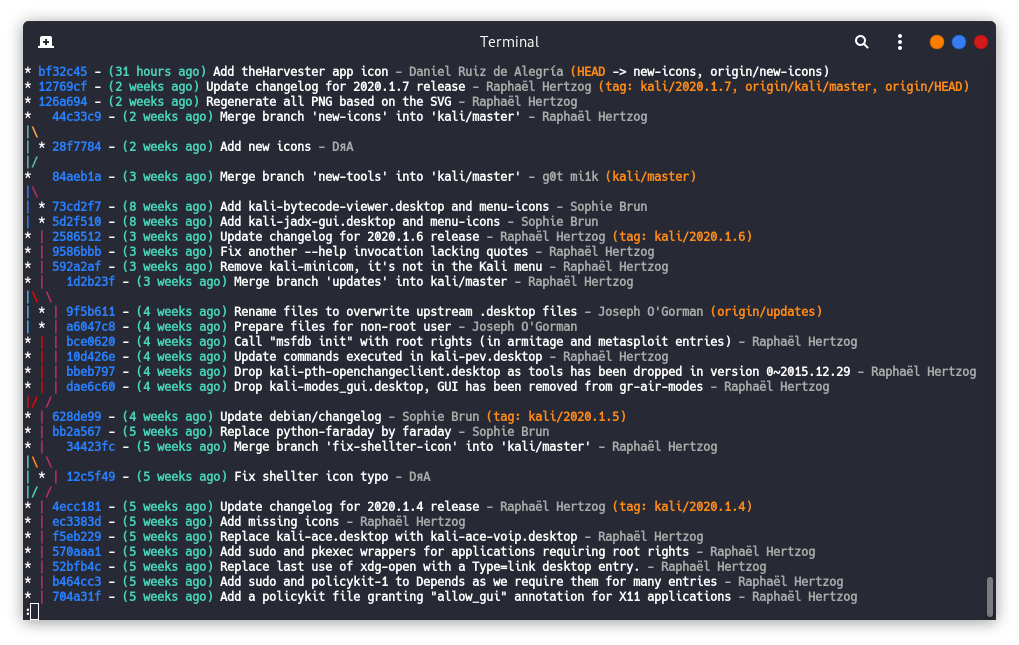
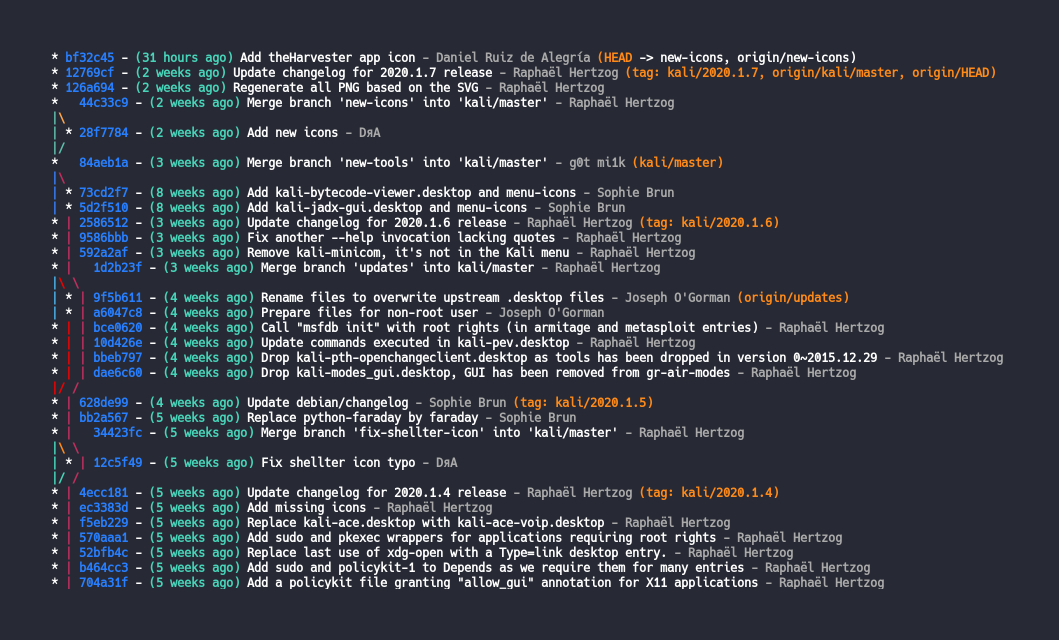
Update 'Pimp my terminal' post .gitconfig settings

diff --git a/src/content/blog/posts/20200115-Pimp my terminal.html b/src/content/blog/posts/20200115-Pimp my terminal.html
@@ -551,23 +551,32 @@ provided message and pushed to the current branch.
     git push origin HEAD
 </span><span class="pun">}</span></pre>
 <h3>.gitconfig</h3>
-<pre>
-[color]
+<pre class="prettyprint">
+[color] <span class="com"># colorize output</span>
 	diff = auto
 	status = auto
 	branch = auto
 	interactive = auto
 	ui = true
 	pager = true
-[credential]
+[credential] <span class="com"># cache credentials</span>
 	helper = cache --timeout=3600
-[alias]
-	glog = !"git --no-pager log --color=always --graph --abbrev-commit --decorate --format=format:'%C(bold blue)%h%C(reset) - %C(bold green)(%ar)%C(reset) %s%C(reset) %C(dim white)- %an%C(reset)%C(bold yellow)%d%C(reset)' --all | less -r -X +/[^/]HEAD"
 </pre>
 <h4>git glog</h4>
+<pre>
+[alias]
+	glog = !"git --no-pager log --all --color=always --graph --abbrev-commit --decorate --format=format:'%C(bold blue)%h%C(reset) - %C(bold green)(%ar)%C(reset) %s%C(reset) %C(dim white)- %an%C(reset)%C(bold yellow)%d%C(reset)' | less -r -X +/[^/]HEAD"
+</pre>
 <img src="/content/blog/posts/media/pimp-my-term/git-glog.png"
     alt="git glog alias"
     style="box-shadow:none">
+<h4>git glog with Nerd Fonts glyphs</h4>
+<pre>
+[alias]
+	glog = !"git --no-pager log --all --color=always --graph --abbrev-commit --decorate --format=format:'%C(bold blue)%h%C(reset) - %C(bold green)(%ar)%C(reset) %s%C(reset) %C(dim white)- %an%C(reset)%C(bold yellow)%d%C(reset)' | sed -r -e 's/\\|(\\x1b\\[[0-9;]*m)+\\\\(\\x1b\\[[0-9;]*m)+ /├\\1─╮\\2/' -e 's/(\\x1b\\[[0-9;]+m)\\|\\x1b\\[m\\1\\/\\x1b\\[m /\\1├─╯\\x1b\\[m/' -e 's/\\|(\\x1b\\[[0-9;]*m)+\\\\(\\x1b\\[[0-9;]*m)+/├\\1╮\\2/' -e 's/(\\x1b\\[[0-9;]+m)\\|\\x1b\\[m\\1\\/\\x1b\\[m/\\1├╯\\x1b\\[m/' -e 's/╮(\\x1b\\[[0-9;]*m)+\\\\/╮\\1╰╮/' -e 's/╯(\\x1b\\[[0-9;]*m)+\\//╯\\1╭╯/' -e 's/(\\||\\\\)\\x1b\\[m   (\\x1b\\[[0-9;]*m)/╰╮\\2/' -e 's/(\\x1b\\[[0-9;]*m)\\\\/\\1╮/g' -e 's/(\\x1b\\[[0-9;]*m)\\//\\1╯/g' -e 's/^\\*|(\\x1b\\[m )\\*/\\1⎬/g' -e 's/(\\x1b\\[[0-9;]*m)\\|/\\1│/g' | less -r -X +/[^/]HEAD"
+</pre>
+<img src="/content/blog/posts/media/pimp-my-term/git-glog-nerdfont.png"
+    alt="git glog alias with nerdfont glyphs">
 <style>
     #terminal-colorscheme span {
         color: #fff;
